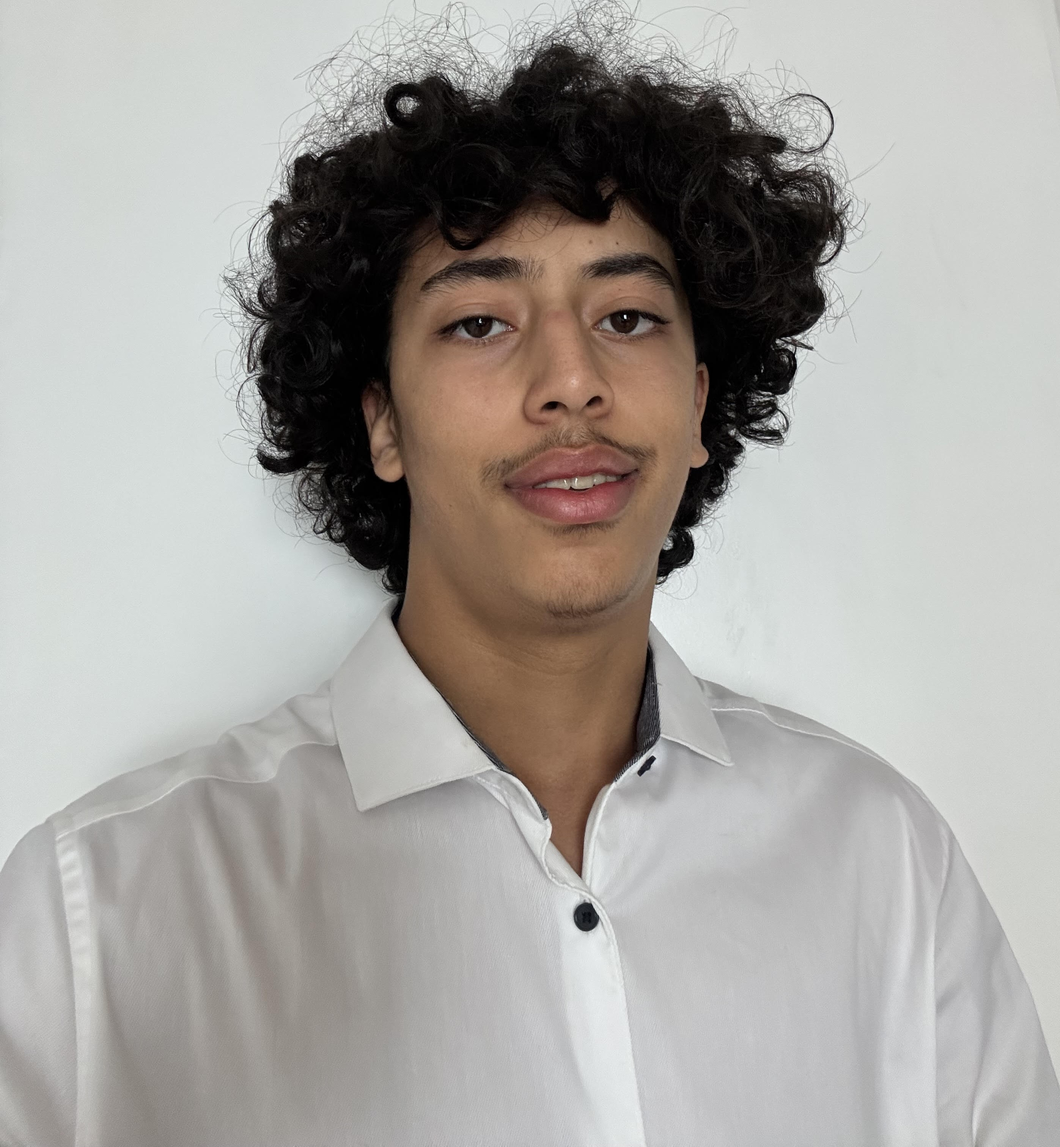
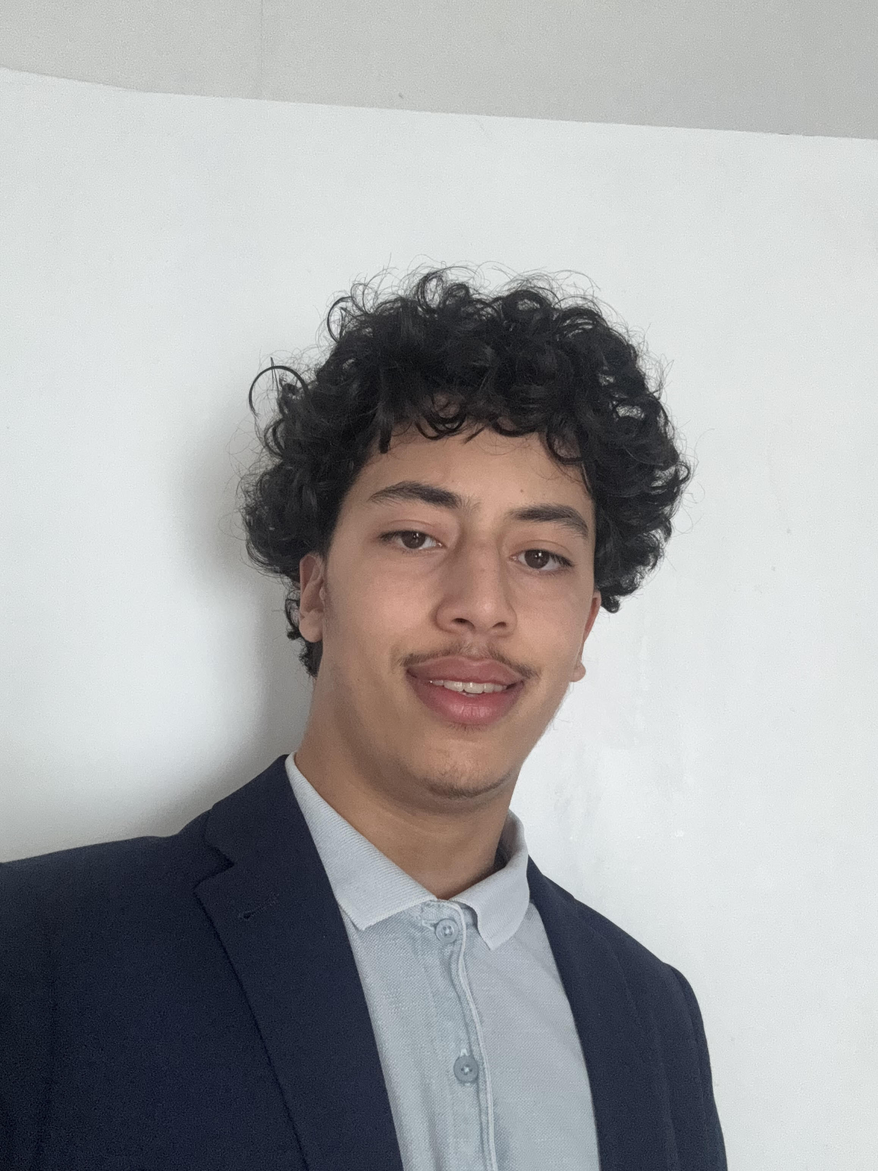
modif du site

diff --git a/index.html b/index.html
@@ -24,12 +24,12 @@
             <h2>À propos de moi</h2>
             <div class="grid1">
                 <article id="txt">
-                    <p>Je m'appelle Hussein OUMAMI, j'ai 17 ans et je suis étudiant en première année de BUT Informatique à l'<a href="https://www.iut-orsay.universite-paris-saclay.fr/">IUT d'Orsay</a>.</p>
-                    <p>Passionné par les technologies depuis mon plus jeune âge, je me suis naturellement tourné vers l'informatique.</p>
-                    <p>Adepte de cette discipline, j’ai réalisé de nombreux projets qui m’ont permis d’évoluer dans ce domaine.</p>
+                    <p>Je m'appelle Hussein OUMAMI, j'ai 17 ans et je suis étudiant en première année de BUT Informatique à l'<a href="https://www.iut-orsay.universite-paris-saclay.fr/">IUT d'Orsay</a>. Curieux et motivé, j’ai choisi cette formation pour approfondir mes compétences et construire mon projet professionnel dans le développement informatique.</p>
+                    <p>Passionné par les technologies depuis mon plus jeune âge, je me suis naturellement orienté vers la programmation. Depuis mes 15 ans, je réalise régulièrement des projets informatiques, comme des jeux, des applications ou des outils. Ces expériences m’ont permis de développer ma logique, ma créativité et mon autonomie.</p>
+                    <p>Adepte de cette discipline, j’ai également mené plusieurs projets personnels et scolaires qui m’ont permis de progresser concrètement en développement. Actuellement, je suis à la recherche d’une alternance en développement d’applications pour une durée de 12 à 24 mois afin de continuer à apprendre et mettre en pratique mes compétences dans un cadre professionnel.</p>
                 </article>
                 <article>
-                    <img src="pp.jpg" alt="photo de profil">
+                    <img src="pp.jpg" alt="photo de profil" >
                 </article>
             </div>
         </aside>
@@ -64,7 +64,7 @@
         <div class="flex-block">
             <article class="card-skill">
                 <h3>💻 Hard skills</h3>
-                <p>C++, JavaScript, C#, Python</p>
+                <p>C++, JavaScript, C#, Python, Java</p>
                 <p>HTML, CSS</p>
                 <p>SQL, Systèmes de gestion de bases de données: SQlite, MySQL, Oracle</p>
                 <p>Moteur de jeu : Unity, Unreal Engine</p>
@@ -103,6 +103,13 @@
         <h2>Projets récents</h2>
         <div class="grid">
             <article class="card">
+                <img src="jdlgif.gif" alt="projet">
+                <div class="content">
+                    <h3>Jeu de la vie</h3>
+                    <p>Conception d'un jeu de la vie avec pygame</p>
+                </div>
+            </article>
+            <article class="card">
                 <img src="gmdp.png" alt="projet">
                 <div class="content">
                     <h3>🔐 Générateur de mots de passe</h3>
@@ -126,6 +133,24 @@
                     <p>Jeu de ping-pong 2D réalisé sur Unity.</p>
                 </div>
             </article>
+
+            <article class="card">
+                <img src="image.gif" alt="projet">
+                <div class="content">
+                    <h3>Jeu de chevalier SLD2</h3>
+                    <p>Projet universitaire réalisation d'un jeu avec SDL2.</p>
+                    <a href="https://github.com/all829/SDL2-Jeu-Chevalier">Voir plus</a>
+                </div>
+            </article>
+
+            <article class="card">
+                <img src="logo.png" alt="projet">
+                <div class="content">
+                    <h3>Trip2gether</h3>
+                    <p>Projet universitaire réalisation d'un site fictif pour une agence de voyage.</p>
+                    <a href="https://github.com/all829/Trip2gether">Voir plus</a>
+                </div>
+            </article>
         </div>
     </section>
 
@@ -147,6 +172,13 @@
                 <h3>🔗 Linkedin</h3>
                 <a href="https://www.linkedin.com/in/hussein-oumami-895423384?utm_source=share&utm_campaign=share_via&utm_content=profile&utm_medium=ios_app">
                     <img src="linkedine.png" alt="LinkedIn">
+                </a>
+            </article>
+
+            <article class="card-skill contact-card" id="linkedin">
+                <h3>Git-hub</h3>
+                <a href="https://github.com/all829">
+                    <img src="gith.png" alt="github">
                 </a>
             </article>
         </div>

diff --git a/style.css b/style.css
@@ -14,6 +14,7 @@ body {
     background-color: #e9f4f6;
 }
 
+
 /* Container */
 .container {
     width: 90%;
@@ -57,6 +58,7 @@ header a:hover {
     color: rgb(1, 118, 154);
 }
 
+
 /* A propos */
 aside h1 {
     text-align: center;
@@ -70,6 +72,10 @@ aside h1 {
     align-items: center;
     justify-content: space-between;
     gap: 2rem;
+}
+
+p{
+    margin: 1rem;
 }
 
 #txt {
